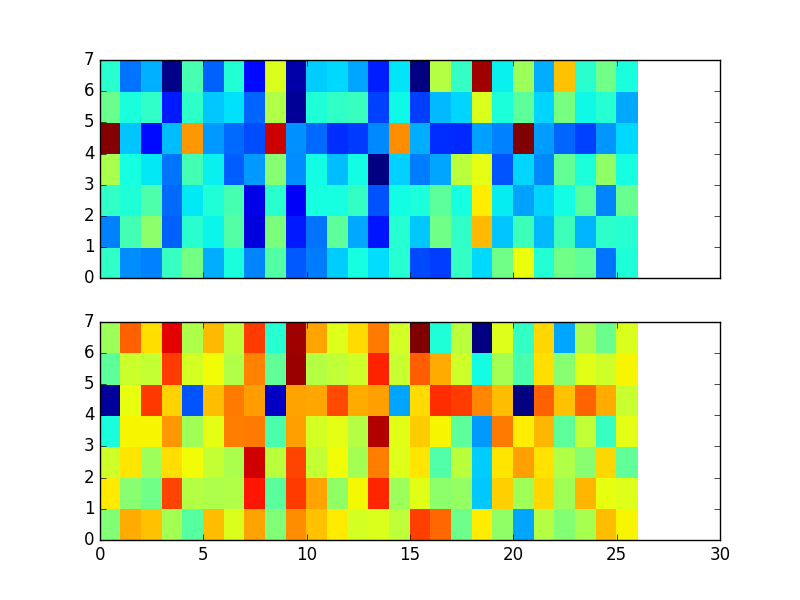
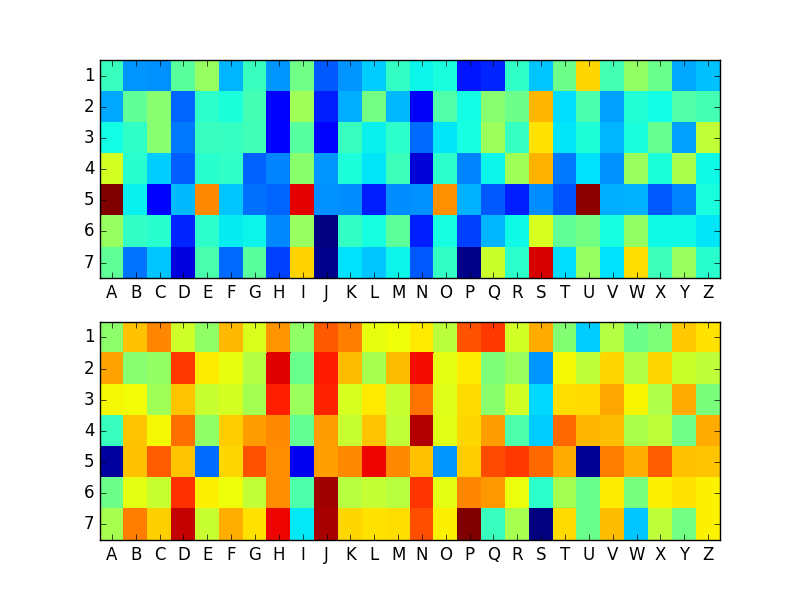
improving matlibplots

diff --git a/tensorFlowDemo/hidden_layers_one.py b/tensorFlowDemo/hidden_layers_one.py
@@ -162,13 +162,24 @@ def main(argv=None):
         print "Train Accuracy:", accuracy.eval(feed_dict={x: data, y_: labels})
         print "Test Accuracy:", accuracy.eval(feed_dict={x: testData, y_: testLabels})
 
-        f, plots = plt.subplots(2, sharex=True)
+        xTicks = [0.5,1.5,2.5,3.5,4.5,5.5,6.5,7.5,8.5,9.5,10.5,11.5,12.5,13.5,14.5,15.5,16.5,17.5,18.5,19.5,20.5,21.5,22.5,23.5,24.5,25.5]
+        xLabels = ['A', 'B', 'C', 'D', 'E', 'F', 'G', 'H', 'I', 'J', 'K', 'L', 'M', 'N', 'O', 'P', 'Q', 'R', 'S', 'T', 'U', 'V', 'W', 'X', 'Y', 'Z']
+
+        yTicks = [0.5, 1.5, 2.5, 3.5, 4.5, 5.5, 6.5]
+        yLabels = [1,2,3,4,5,6,7]
+
+        fig, plots = plt.subplots(2)
+
+        plt.setp(plots, xticks=xTicks, xticklabels=xLabels, yticks=yTicks, yticklabels=yLabels)
+
+
         for i in range(2):
             # NOTE [:,i] is all rows in column i
             # This would be getting all weights from hidden layer to the ith label
+            plots[i].invert_yaxis()
             plots[i].pcolor(s.run(w_hidden)[:,i].reshape(7,26))
 
-        f.savefig('weights.png')
+        fig.savefig('weights.png')
 
 
 if __name__ == '__main__':
